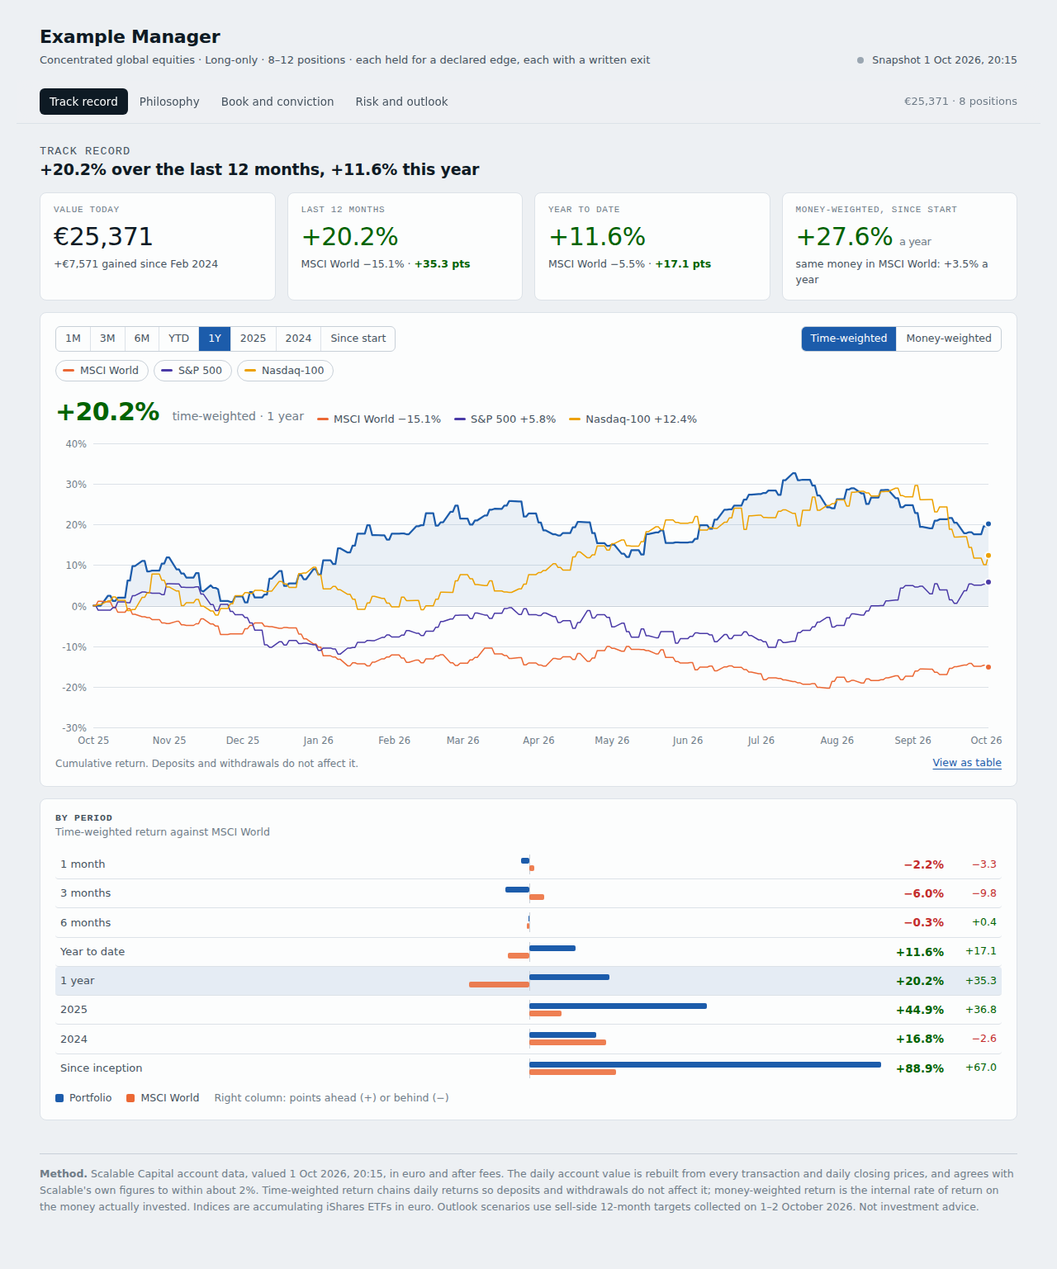
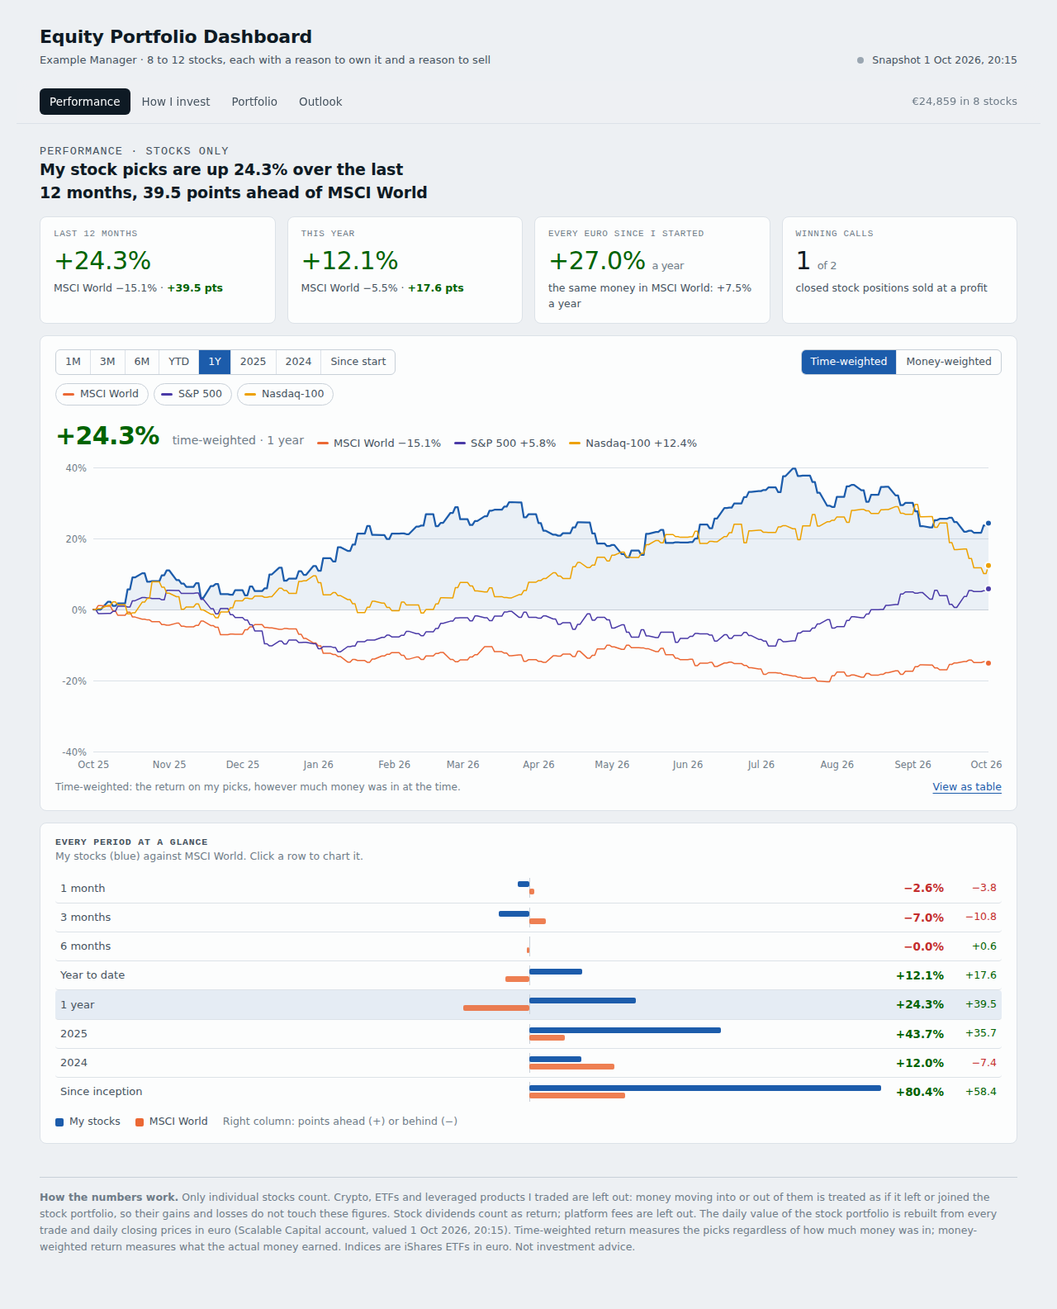
Rename to Equity Portfolio Dashboard and measure stocks only
Carves the stock book out of the account: crypto, ETFs and leveraged
products are excluded, money moving to or from them counts as an external
flow, and stock dividends count as return. Daily TWR now treats inflows as
start-of-day and outflows as end-of-day, which keeps days with an empty
book stable. Copy is rewritten in a personal tone for peers.

Claude-Session: https://claude.ai/code/session_01ABTLXaQmWwDDpoTxDco2CE

diff --git a/src/page/views.js b/src/page/views.js
@@ -18,10 +18,10 @@ function portOutlook(pr) {
 /* ---------- masthead and tabs ---------- */
 function renderHeader() {
   const D = M.D, pr = D.profile;
-  $('#mh-name').textContent = pr.manager;
-  $('#mh-strategy').textContent = pr.strategy;
+  $('#mh-name').textContent = 'Equity Portfolio Dashboard';
+  $('#mh-strategy').textContent = pr.manager;
   $('#mh-tag').textContent = pr.tagline;
-  $('#mh-aum').textContent = `${fmtEUR0(M.total)} · ${M.H.length} positions`;
+  $('#mh-aum').textContent = `${fmtEUR0(M.secValue)} in ${M.H.length} stocks`;
   const st = $('#status'); st.dataset.mode = state.mode;
   const txt = { snapshot: `Snapshot ${tfmt(D.meta.asOf)}`, loading: 'Refreshing from Scalable…', live: `Live ${tfmt(D.meta.asOf)}`, error: `Snapshot ${tfmt(D.meta.asOf)}` }[state.mode];
   $('#status-text').textContent = txt + (state.statusMsg ? ' · ' + state.statusMsg : '');
@@ -65,14 +65,15 @@ function renderRecord() {
   const g = (k) => all.find((s) => s.k === k);
   const y1 = g('1Y'), ytd = g('YTD'), si = g('SI');
   const twr = state.measure === 'twr';
+  const closedStocks = D.ledger.realised.filter((r) => r.type === 'Shares' && r.last), wins = closedStocks.filter((r) => r.pl > 0).length;
 
   root.innerHTML = `
-  <div class="lede"><div><p class="kicker">Track record</p><h2>${fmtSignedPct(y1.twr, 1)} over the last 12 months, ${fmtSignedPct(ytd.twr, 1)} this year</h2></div></div>
+  <div class="lede"><div><p class="kicker">Performance · stocks only</p><h2>My stock picks are ${y1.twr >= 0 ? 'up' : 'down'} ${fmtPct(Math.abs(y1.twr), 1)} over the last 12 months, ${Math.abs((y1.twr - y1.idx[primary].twr) * 100).toFixed(1)} points ${y1.twr >= y1.idx[primary].twr ? 'ahead of' : 'behind'} ${esc(pName)}</h2></div></div>
   <div class="kpis4">
-    ${kpi('Value today', fmtEUR0(M.total), '', `${D.pl.MAX >= 0 ? '+' : ''}${fmtEUR0(D.pl.MAX)} gained since ${esc(dfmt(isoDay(PF.first), { day: undefined }))}`)}
     ${kpi('Last 12 months', fmtSignedPct(y1.twr, 1), cls(y1.twr), vsIdx(y1.twr, y1.idx[primary].twr, pName))}
-    ${kpi('Year to date', fmtSignedPct(ytd.twr, 1), cls(ytd.twr), vsIdx(ytd.twr, ytd.idx[primary].twr, pName))}
-    ${kpi('Money-weighted, since start', fmtSignedPct(si.mwr, 1) + '<small> a year</small>', cls(si.mwr), `same money in ${esc(pName)}: ${fmtSignedPct(si.idx[primary].mwr, 1)} a year`)}
+    ${kpi('This year', fmtSignedPct(ytd.twr, 1), cls(ytd.twr), vsIdx(ytd.twr, ytd.idx[primary].twr, pName))}
+    ${kpi('Every euro since I started', fmtSignedPct(si.mwr, 1) + '<small> a year</small>', cls(si.mwr), `the same money in ${esc(pName)}: ${fmtSignedPct(si.idx[primary].mwr, 1)} a year`)}
+    ${kpi('Winning calls', `${wins}<small> of ${closedStocks.length}</small>`, '', `closed stock positions sold at a profit`)}
   </div>
 
   <div class="panel" style="margin-top:14px">
@@ -84,16 +85,16 @@ function renderRecord() {
     <div class="headline"><span class="big2 ${cls(twr ? st.twr : st.gain)}">${twr ? fmtSignedPct(st.twr, 1) : fmtSignedEUR(st.gain)}</span><span class="muted">${twr ? 'time-weighted' : `money-weighted ${st.years > 1.05 ? fmtSignedPct(st.mwr, 1) + ' a year' : fmtSignedPct(st.mwrPeriod, 1)}`} · ${esc(TFL[state.tf])}</span>
       ${sel.map((id) => `<span class="idxv"><i class="sw line" style="background:${IDX_COLOR[id]}"></i>${esc(idxName(id))} ${twr ? fmtSignedPct(st.idx[id].twr, 1) : fmtSignedEUR(st.idx[id].value - st.b.v + st.gain)}</span>`).join('')}</div>
     <div id="perfchart" class="chart"></div>
-    <div class="row-between" style="margin-top:6px"><span class="muted small">${twr ? 'Cumulative return. Deposits and withdrawals do not affect it.' : 'Portfolio value against the same deposits and withdrawals invested in each index.'}</span><button class="tablink" id="tv-perf">${state.tableView.perf ? 'Show chart' : 'View as table'}</button></div>
+    <div class="row-between" style="margin-top:6px"><span class="muted small">${twr ? 'Time-weighted: the return on my picks, however much money was in at the time.' : 'Money-weighted: what my actual money is worth, against putting the same money in each index on the same days.'}</span><button class="tablink" id="tv-perf">${state.tableView.perf ? 'Show chart' : 'View as table'}</button></div>
   </div>
 
   <div class="panel" style="margin-top:14px">
-    <h3>By period</h3><p class="sub">Time-weighted return against ${esc(pName)}</p>
+    <h3>Every period at a glance</h3><p class="sub">My stocks (blue) against ${esc(pName)}. Click a row to chart it.</p>
     <div class="pbars">${all.map((s) => { const e = s.twr - s.idx[primary].twr; const mx = Math.max(...all.map((q) => Math.max(Math.abs(q.twr), Math.abs(q.idx[primary].twr)))) || 1; const w = (x) => (Math.abs(x) / mx) * 50;
       return `<button class="pb${s.k === state.tf ? ' on' : ''}" data-tf="${s.k}"><span class="pl">${esc(TFL[s.k])}</span>
         <span class="pt"><i class="z"></i><i class="b you ${s.twr < 0 ? 'neg' : ''}" style="${s.twr < 0 ? `right:50%;width:${w(s.twr)}%` : `left:50%;width:${w(s.twr)}%`}"></i><i class="b idx" style="background:${IDX_COLOR[primary]};${s.idx[primary].twr < 0 ? `right:50%;width:${w(s.idx[primary].twr)}%` : `left:50%;width:${w(s.idx[primary].twr)}%`}"></i></span>
         <span class="pv ${cls(s.twr)}">${fmtSignedPct(s.twr, 1)}</span><span class="pe ${cls(e)}">${e >= 0 ? '+' : '−'}${Math.abs(e * 100).toFixed(1)}</span></button>`; }).join('')}</div>
-    <div class="legend" style="margin:10px 0 0"><span><i class="sw" style="background:var(--accent)"></i>Portfolio</span><span><i class="sw" style="background:${IDX_COLOR[primary]}"></i>${esc(pName)}</span><span class="muted">Right column: points ahead (+) or behind (−)</span></div>
+    <div class="legend" style="margin:10px 0 0"><span><i class="sw" style="background:var(--accent)"></i>My stocks</span><span><i class="sw" style="background:${IDX_COLOR[primary]}"></i>${esc(pName)}</span><span class="muted">Right column: points ahead (+) or behind (−)</span></div>
   </div>`;
 
   $$('#t-record [data-tf]').forEach((b) => b.addEventListener('click', () => { state.tf = b.dataset.tf; renderRecord(); }));
@@ -111,7 +112,7 @@ function renderRecord() {
   const fl = PF.fl.filter((f) => f[0] > a.t && f[0] <= b.t);
   let series, yFmt, tipVal;
   if (twr) {
-    series = [{ v: pp.map((p) => (p.i / a.i - 1) * 100), color: 'var(--accent)', width: 2.25, label: 'Portfolio', fill: true, fillTo: 0, fillOpacity: 0.08 }]
+    series = [{ v: pp.map((p) => (p.i / a.i - 1) * 100), color: 'var(--accent)', width: 2.25, label: 'My stocks', fill: true, fillTo: 0, fillOpacity: 0.08 }]
       .concat(sel.map((id) => ({ v: xs.map((t) => (PF.P[id](t) / PF.P[id](a.t) - 1) * 100), color: IDX_COLOR[id], width: 1.5, label: idxName(id) })));
     yFmt = (v) => Math.round(v) + '%'; tipVal = (v) => fmtSignedPct(v / 100, 1);
   } else {
@@ -119,7 +120,7 @@ function renderRecord() {
     const idxV = Object.fromEntries(sel.map((id) => [id, []])), money = [];
     let m = a.v;
     xs.forEach((t) => { while (k < fl.length && fl[k][0] <= t) { sel.forEach((id) => { unitsCum[id] += fl[k][1] / PF.P[id](fl[k][0]); }); m += fl[k][1]; k++; } sel.forEach((id) => idxV[id].push(unitsCum[id] * PF.P[id](t))); money.push(m); });
-    series = [{ v: pp.map((p) => p.v), color: 'var(--accent)', width: 2.25, label: 'Portfolio' }]
+    series = [{ v: pp.map((p) => p.v), color: 'var(--accent)', width: 2.25, label: 'My stocks' }]
       .concat(sel.map((id) => ({ v: idxV[id], color: IDX_COLOR[id], width: 1.5, label: 'Same money in ' + idxName(id) })))
       .concat([{ v: money, color: 'var(--ink3)', width: 1.25, dash: '4 4', label: 'Money in' }]);
     yFmt = (v) => (Math.abs(v) >= 1000 ? Math.round(v / 1000) + 'k' : String(Math.round(v))); tipVal = (v) => fmtEUR0(v);
@@ -141,15 +142,15 @@ function renderPhilosophy() {
   const pr = M.D.profile;
   const inBook = (edge) => M.H.filter((h) => h.conviction && h.conviction.edge === edge);
   root.innerHTML = `
-  <div class="lede"><div><p class="kicker">Philosophy</p><h2>Eight to twelve stocks, each owned for a declared reason, each with a written exit</h2></div></div>
+  <div class="lede"><div><p class="kicker">How I invest</p><h2>Eight to twelve stocks. Each one needs a reason to be in, and a written reason to get out.</h2></div></div>
   <div class="mchips">${pr.mandate.map((m) => `<span><b>${esc(m[0])}</b>${esc(m[1])}</span>`).join('')}</div>
   <div class="grid" style="margin-top:14px">
     ${Object.entries(pr.edges).map(([k, e]) => { const hs = inBook(k); return `<div class="panel s-4 edge">
       <div class="who">${esc(e.master)}</div><div class="nm">${esc(k)}</div><p>${esc(e.source)}.</p>
       <div class="kv"><span>Holding period</span><b>${esc(e.horizon)}</b></div>
       <div class="inbook">${hs.length ? hs.map((h) => `<span class="chip">${esc(h.ticker)} <b>${(h.weight * 100).toFixed(0)}%</b></span>`).join('') : '<span class="muted">none held</span>'}</div></div>`; }).join('')}
-    <div class="panel s-6"><h3>Process</h3><ol class="flow">${pr.process.map((s) => `<li>${esc(s[0])}</li>`).join('')}</ol></div>
-    <div class="panel s-6"><h3>Rules from the record</h3><ul class="rules">${pr.lessons.map((l) => `<li>${esc(l.rule)}</li>`).join('')}</ul></div>
+    <div class="panel s-6"><h3>How a stock gets in</h3><ol class="flow">${pr.process.map((s) => `<li>${esc(s[0])}</li>`).join('')}</ol></div>
+    <div class="panel s-6"><h3>Lessons I paid for</h3><ul class="rules">${pr.lessons.map((l) => `<li>${esc(l.rule)}</li>`).join('')}</ul></div>
   </div>`;
 }
 
@@ -184,7 +185,7 @@ function renderBook() {
   if (state.open && !holdingBy(state.open)) state.open = null;
 
   root.innerHTML = `
-  <div class="lede"><div><p class="kicker">Book and conviction</p><h2>${M.H.length} positions · ${fmtSignedPct(O.exp, 0)} expected over 12 months</h2><p>Select a position for its thesis, its exit and the evidence.</p></div></div>
+  <div class="lede"><div><p class="kicker">Portfolio</p><h2>What I own and why: ${M.H.length} stocks</h2><p>Tap a stock to see why I own it, what would make me sell, and the bull and bear case.</p></div></div>
   <div class="panel flat">
     <div class="book-h"><span>Position</span><span>Weight</span><span class="hs">Since bought</span><span class="hs2">12-month range: bear, average target, bull</span><span>Expected</span></div>
     ${M.H.map((h) => {
@@ -261,7 +262,7 @@ function renderRisk() {
   ];
   const sMax = Math.max(...stress.map((s) => Math.abs(s[1])));
   root.innerHTML = `
-  <div class="lede"><div><p class="kicker">Risk and outlook</p><h2>${fmtSignedPct(O.exp, 0)} expected over 12 months, at ${(sigma / bVol).toFixed(1)}× the volatility of MSCI World</h2></div>
+  <div class="lede"><div><p class="kicker">Outlook</p><h2>Where the portfolio could be a year from now</h2><p>Built from analyst price targets, which tend to be optimistic, so try the Cautious and Stress settings too.</p></div>
     <div class="seg" role="group" aria-label="Scenario odds">${Object.entries(PRESETS).map(([k, v]) => `<button data-pre="${k}" aria-pressed="${k === state.preset}">${v.label}</button>`).join('')}</div></div>
   <div class="kpis4">
     ${kpi('Expected, 12 months', fmtSignedPct(O.exp, 0), cls(O.exp), `${O.exp >= 0 ? '+' : ''}${fmtEUR0(O.exp * V)} · odds ${pr.map((x) => Math.round(x * 100)).join('/')}`)}
@@ -288,6 +289,6 @@ function renderRisk() {
 function renderNotes() {
   const D = M.D;
   $('#notes').innerHTML = `<div class="foot">
-    <p><b>Method.</b> Scalable Capital account data, valued ${tfmt(D.meta.asOf)}, in euro and after fees. The daily account value is rebuilt from every transaction and daily closing prices, and agrees with Scalable's own figures to within about 2%. Time-weighted return chains daily returns so deposits and withdrawals do not affect it; money-weighted return is the internal rate of return on the money actually invested. Indices are accumulating iShares ETFs in euro. Outlook scenarios use sell-side 12-month targets collected on 1–2 October 2026. Not investment advice.</p>
+    <p><b>How the numbers work.</b> Only individual stocks count. Crypto, ETFs and leveraged products I traded are left out: money moving into or out of them is treated as if it left or joined the stock portfolio, so their gains and losses do not touch these figures. Stock dividends count as return; platform fees are left out. The daily value of the stock portfolio is rebuilt from every trade and daily closing prices in euro (Scalable Capital account, valued ${tfmt(D.meta.asOf)}). Time-weighted return measures the picks regardless of how much money was in; money-weighted return measures what the actual money earned. Indices are iShares ETFs in euro. Not investment advice.</p>
   </div>`;
 }

diff --git a/pipeline/history.js b/pipeline/history.js
@@ -7,7 +7,7 @@
 // Usage: node pipeline/history.js [data dir, default data/private]
 const fs = require('fs');
 const path = require('path');
-const { loadTx, replay } = require('./holdings_history.js');
+const { loadTx, replay, instrumentType } = require('./holdings_history.js');
 const dir = path.resolve(process.argv[2] || path.join(__dirname, '..', 'data', 'private'));
 const rd = (f) => JSON.parse(fs.readFileSync(path.join(dir, f), 'utf8'));
 const SNAP = rd('snapshot.json'), S = rd('series.json');
@@ -92,7 +92,22 @@ const check = Object.entries(starts).map(([k, t]) => {
   return { period: k, date: new Date(t).toISOString().slice(0, 10), broker: +broker.toFixed(0), rebuilt: +rebuilt.toFixed(0), diff: +(rebuilt - broker).toFixed(0), pct: +((rebuilt / broker - 1) * 100).toFixed(2) };
 });
 check.push({ period: 'now', date: SNAP.meta.asOf.slice(0, 10), broker: SNAP.total, rebuilt: points[points.length - 1].v, diff: +(points[points.length - 1].v - SNAP.total).toFixed(0), pct: +((points[points.length - 1].v / SNAP.total - 1) * 100).toFixed(2) });
-fs.writeFileSync(path.join(dir, 'history.json'), JSON.stringify({ points, check, external: external.map((f) => [f.t, +f.a.toFixed(2)]) }));
+// ---- stock book (carve-out): individual shares only. Crypto, ETFs/ETCs and leveraged products are left out;
+// money moving between the stock book and the rest of the account counts as an external flow, and stock
+// dividends count as income paid out of the book. Cash is not part of the book.
+const TYPES = fs.existsSync(path.join(dir, 'types.json')) ? rd('types.json') : {};
+const isStock = (isin) => isin && instrumentType(isin, TYPES) === 'Shares';
+const sleeveFlows = tx.filter((r) => isStock(r.isin) && ['buy', 'sell', 'div'].includes(r.kind)).map((r) => [r.t, +((r.kind === 'buy' ? 1 : -1) * r.amt).toFixed(2)]);
+function stockValueAt(t) {
+  const s = state(t); let v = 0;
+  for (const [isin, q] of Object.entries(s.qty)) { if (!isStock(isin)) continue; const { p } = price(isin, t); if (p != null) v += q * p; }
+  return v;
+}
+let cumF = 0, fi = 0;
+const sleevePoints = points.map((p) => { while (fi < sleeveFlows.length && sleeveFlows[fi][0] <= p.t) cumF += sleeveFlows[fi++][1]; return [p.t, +stockValueAt(p.t).toFixed(2), +cumF.toFixed(2)]; });
+const stockNow = SNAP.holdings.filter((h) => isStock(h.isin)).reduce((a, h) => a + h.qty * h.price, 0);
+console.log('stock book now: rebuilt', sleevePoints[sleevePoints.length - 1][1].toFixed(0), 'broker', stockNow.toFixed(0));
+fs.writeFileSync(path.join(dir, 'history.json'), JSON.stringify({ points, check, external: external.map((f) => [f.t, +f.a.toFixed(2)]), stocks: { points: sleevePoints, external: sleeveFlows } }));
 console.table(check);
 console.log('price sources used:', used);
 const approxMonths = points.filter((p) => p.approx && new Date(p.t + DAY).getUTCDate() === 1);

diff --git a/pipeline/build_data.js b/pipeline/build_data.js
@@ -44,7 +44,8 @@ const d10 = (s) => s.slice(0, 10);
 // Instrument type for the realised-results bridge. Optional <data>/types.json overrides by ISIN
 // (for leveraged ETPs that do not carry an issuer prefix, for example).
 const TYPES = fs.existsSync(path.join(dir, 'types.json')) ? rd('types.json') : {};
-const type = (isin) => TYPES[isin] || (['BTC', 'ETH', 'ADA', 'SOL'].includes(isin) ? 'Crypto' : /^DE000BB/.test(isin) ? 'Leveraged & certificates' : /^(IE|LU)/.test(isin) ? 'ETFs & ETCs' : 'Shares');
+const { instrumentType } = require('./holdings_history.js');
+const type = (isin) => instrumentType(isin, TYPES);
 
 const holdings = SNAP.holdings.map((f) => {
   const pos = L.positions[f.isin] || { cost: null, lots: [] };
@@ -77,7 +78,8 @@ const DATA = {
   indices: INDICES,
   benchMonthly: Object.fromEntries(INDICES.map((x) => [x.isin, PM[x.isin]])),
   indexDaily: PD ? Object.fromEntries(INDICES.filter((x) => PD[x.isin]).map((x) => [x.isin, { d: PD[x.isin].d, p: PD[x.isin].p }])) : {},
-  history: { points: HIST.points.map((p) => [p.t, p.v, p.net]), external: HIST.external, check: HIST.check },
+  // the Track record uses the stock book only; the whole-account history is kept for the reconciliation note
+  history: HIST.stocks ? { points: HIST.stocks.points, external: HIST.stocks.external, check: HIST.check, scope: 'stocks' } : { points: HIST.points.map((p) => [p.t, p.v, p.net]), external: HIST.external, check: HIST.check, scope: 'account' },
   flows: L.flows.map((f) => ({ d: f.date.slice(0, 16), a: +f.amt.toFixed(2), k: f.kind })),
   ledger: {
     summary: Object.fromEntries(Object.entries(L.summary).map(([k, v]) => [k, +(+v).toFixed(2)])),

diff --git a/src/page/model.js b/src/page/model.js
@@ -16,7 +16,7 @@ const px = (x) => (x >= 100 ? fmtNum(x, 2) : x >= 10 ? fmtNum(x, 2) : fmtNum(x, 
 const dayMs = (s) => Date.parse(s.length === 10 ? s + 'T12:00:00Z' : s.length === 16 ? s + ':00Z' : s);
 
 /* ---------- state ---------- */
-const TABS = [['record', 'Track record'], ['philosophy', 'Philosophy'], ['book', 'Book and conviction'], ['risk', 'Risk and outlook']];
+const TABS = [['record', 'Performance'], ['philosophy', 'How I invest'], ['book', 'Portfolio'], ['risk', 'Outlook']];
 const state = { tab: 'record', bench: 'MSCI', tf: '1Y', measure: 'twr', idxSel: ['MSCI', 'SPX', 'NDX'], open: null, preset: 'analyst', mode: 'snapshot', statusMsg: '', tableView: {}, commentary: {}, dbReady: false };
 /* scenario probabilities: bull, base, bear */
 const PRESETS = { analyst: { label: 'Analyst view', p: [0.25, 0.5, 0.25] }, cautious: { label: 'Cautious', p: [0.15, 0.45, 0.4] }, stress: { label: 'Stress', p: [0.05, 0.35, 0.6] } };
@@ -122,7 +122,7 @@ function buildModel(D) {
   const hhi = C_sum(H.map((h) => (h.value / secValue) ** 2));
   H.forEach((h) => { h.sc = scenarios(h, risk); });
   const lev = C_sum(D.ledger.realised.filter((r) => r.type === 'Leveraged & certificates').map((r) => r.pl));
-  const perf = perfModel(D, asOf, total);
+  const perf = perfModel(D, asOf, D.history.scope === 'stocks' ? secValue : total);
   return { D, asOf, H, total, lev, perf, cash: D.cash, secValue, flows, firstFlow, risk, rows, irr, anchors, deposited, withdrawn, net: deposited - withdrawn, unreal, realised: L.realisedTotal + L.realisedCrypto, incomeDiv, hhi, effN: 1 / hhi };
 }
 const C_sum = (a) => a.reduce((s, x) => s + x, 0);

diff --git a/pipeline/build_page.js b/pipeline/build_page.js
@@ -9,13 +9,12 @@ const out = path.resolve(process.argv[3] || path.join(root, 'dist', 'portfolio.h
 const rd = (f) => fs.readFileSync(path.join(root, f), 'utf8');
 
 const data = fs.readFileSync(path.join(dataDir, 'data.json'), 'utf8');
-const manager = JSON.parse(data).profile.manager;
 const scripts = ['src/core.js', 'src/page/model.js', 'src/page/views.js', 'src/page/live.js'].map(rd).join('\n');
 
 const body = `
 <div class="app">
   <header class="top">
-    <div class="brand"><h1 id="mh-name"></h1><p><span id="mh-strategy"></span> · <span id="mh-tag"></span></p></div>
+    <div class="brand"><h1 id="mh-name">Equity Portfolio Dashboard</h1><p><span id="mh-strategy"></span> · <span id="mh-tag"></span></p></div>
     <div class="status" id="status" data-mode="snapshot" role="status"><span class="dot"></span><span id="status-text"></span><button class="btn" id="btn-refresh" hidden>Refresh</button></div>
   </header>
   <div class="bar"><nav class="tabs" id="tabs" role="tablist" aria-label="Sections"></nav><span class="muted" id="mh-aum" style="margin-left:auto;font-size:13px"></span></div>
@@ -28,7 +27,7 @@ const body = `
 <div id="tip" role="tooltip"></div>`;
 
 const json = data.replace(/<\//g, '<\\/').replace(/<!--/g, '<\\!--');
-const html = `<title>${manager.replace(/[<&]/g, '')} Track Record</title>
+const html = `<title>Equity Portfolio Dashboard</title>
 <link rel="stylesheet" href="https://fonts.googleapis.com/css2?family=IBM+Plex+Mono:wght@400;500;600&family=IBM+Plex+Sans:wght@400;500;600&display=swap">
 <style>
 ${rd('src/page/style.css')}

diff --git a/src/core.js b/src/core.js
@@ -139,7 +139,10 @@ function twrIndex(points, flows) {
   for (let k = 1; k < points.length; k++) {
     const a = points[k - 1], b = points[k], T = b.t - a.t;
     const fl = flows.filter((f) => f[0] > a.t && f[0] <= b.t);
-    const F = sum(fl.map((f) => f[1])), W = sum(fl.map((f) => (f[1] * (b.t - f[0])) / T));
+    const F = sum(fl.map((f) => f[1]));
+    // daily periods: money in counts from the start of the day, money out from the end (robust when the book
+    // is empty at either end); longer periods use Modified Dietz time weights
+    const W = T <= 4 * 864e5 ? sum(fl.filter((f) => f[1] > 0).map((f) => f[1])) : sum(fl.map((f) => (f[1] * (b.t - f[0])) / T));
     const base = a.v + W;
     const r = base > 1 ? (b.v - a.v - F) / base : 0;
     sub.push(r); idx.push(idx[k - 1] * (1 + r));

diff --git a/pipeline/holdings_history.js b/pipeline/holdings_history.js
@@ -19,4 +19,6 @@ function replay(tx) {
     return { cash, qty };
   };
 }
-module.exports = { loadTx, replay, CASH, QTY };
+/** Instrument class used to carve the stock book out of the account. types: optional {isin: type} overrides. */
+const instrumentType = (isin, types = {}) => types[isin] || (['BTC', 'ETH', 'ADA', 'SOL'].includes(isin) ? 'Crypto' : /^DE000BB/.test(isin) ? 'Leveraged & certificates' : /^(IE|LU)/.test(isin) ? 'ETFs & ETCs' : 'Shares');
+module.exports = { loadTx, replay, instrumentType, CASH, QTY };

diff --git a/README.md b/README.md
@@ -1,16 +1,17 @@
-# PM track record
+# Equity Portfolio Dashboard
 
-A single-page track record for a concentrated, long-only equity book. It is built from a Scalable Capital
-account and written for an allocator: a hedge fund or family office deciding whether to hire the manager.
+A single-page dashboard of a concentrated stock-picking portfolio, built from a Scalable Capital account. It is
+written for peers: to show how the picks have done, how they are chosen, what is owned and why, and what could
+happen next. Only individual stocks count; see *Stocks only* below.
 
 The page answers four questions, one per tab:
 
 | Tab | Question it answers | What is on it |
 |---|---|---|
-| **Track record** | Has the manager made money, measured the way an allocator would, and against which index? | Four headline figures; a daily chart of time-weighted (TWR) or money-weighted (MWR) performance for 1M, 3M, 6M, YTD, 1Y, 2025, 2024 or since inception against any of five indices (MSCI World, MSCI ACWI, S&P 500, Nasdaq-100, STOXX Europe 600); a bar comparison for every period |
-| **Philosophy** | How does the manager decide? | Mandate, the three edges (patience, informational, catalyst) with the positions that rely on each, the six-step process, and the rules learned from the record |
-| **Book and conviction** | What is owned, why, and what would end it? | Every position with its weight against target, declared edge, gain since bought, the analysts' bear-to-bull range and the expected return. Each opens to the thesis, the written kill-switch, bull and bear cases, industry and competitors, and the latest news |
-| **Risk and outlook** | What could happen next, and how risky is the book? | Expected 12-month return under three sets of scenario odds, bull and bear outcomes, volatility, one-month value at risk, a range-of-outcomes chart and four stress tests |
+| **Performance** | Has the manager made money, measured the way an allocator would, and against which index? | Four headline figures; a daily chart of time-weighted (TWR) or money-weighted (MWR) performance for 1M, 3M, 6M, YTD, 1Y, 2025, 2024 or since inception against any of five indices (MSCI World, MSCI ACWI, S&P 500, Nasdaq-100, STOXX Europe 600); a bar comparison for every period |
+| **How I invest** | How does the manager decide? | Mandate, the three edges (patience, informational, catalyst) with the positions that rely on each, the six-step process, and the rules learned from the record |
+| **Portfolio** | What is owned, why, and what would end it? | Every position with its weight against target, declared edge, gain since bought, the analysts' bear-to-bull range and the expected return. Each opens to the thesis, the written kill-switch, bull and bear cases, industry and competitors, and the latest news |
+| **Outlook** | What could happen next, and how risky is the book? | Expected 12-month return under three sets of scenario odds, bull and bear outcomes, volatility, one-month value at risk, a range-of-outcomes chart and four stress tests |
 
 ![Track record tab, built from the synthetic sample](docs/sample-record.png)
 
